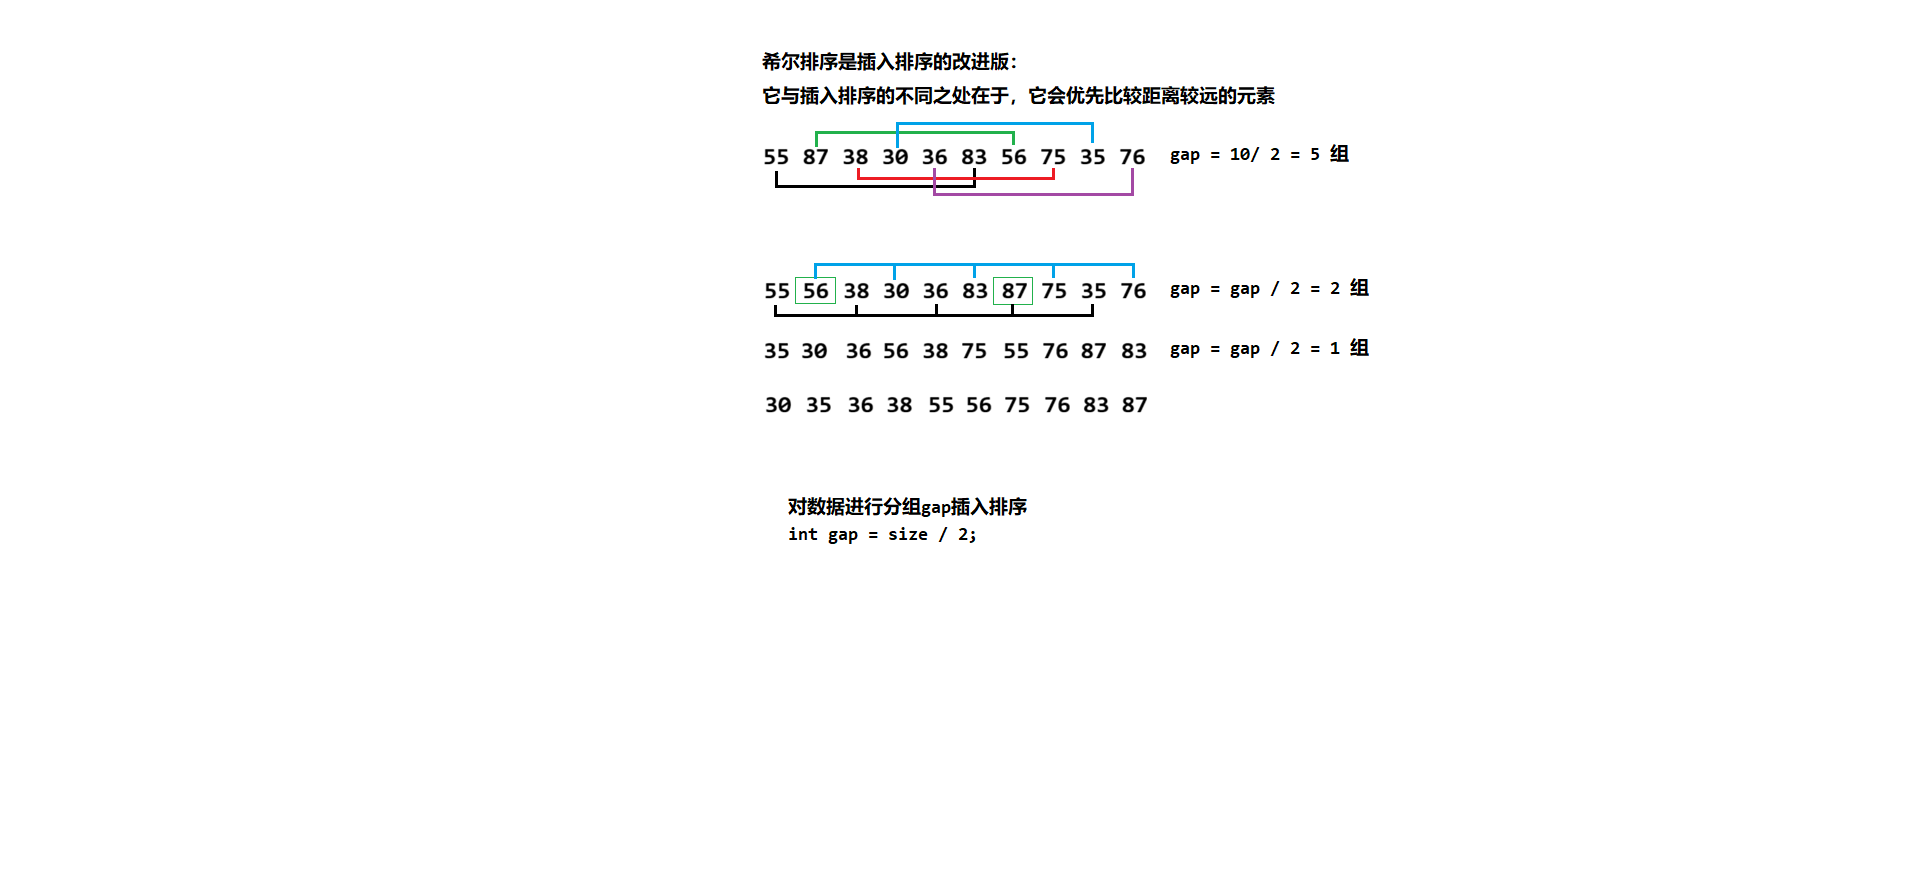
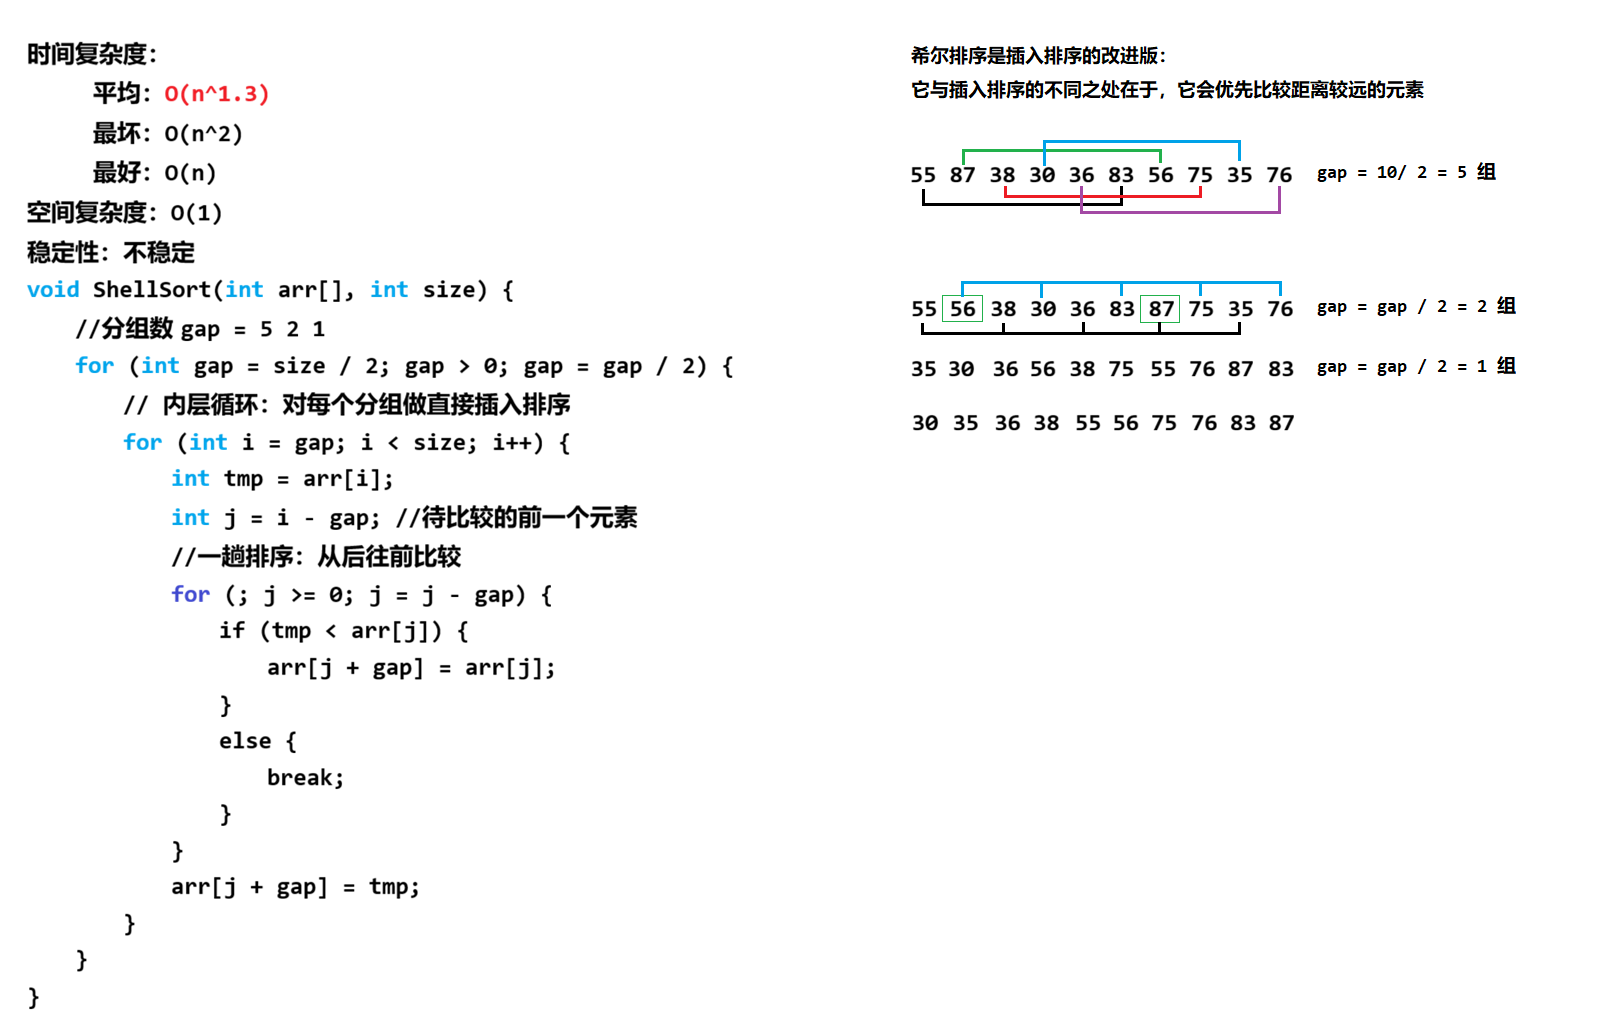
1

diff --git a/11 基础排序/11 基础排序/11 冒泡排序.cpp b/11 基础排序/11 基础排序/11 冒泡排序.cpp
@@ -1,4 +1,4 @@
-#include <iostream>
+#include <iostream>
 #include <time.h>
 
 using namespace std;
@@ -42,7 +42,7 @@ void ChoiceSort(int arr[], int size) {
 void InsertSort(int arr[], int size) {
 	for (int i = 0; i < size - 1; i++) {
 		int tmp = arr[i + 1];
-		int j = i;
+		int j = i; //待比较的前一个元素
 		//一趟排序：第i趟排序比较i+1次
 		for (; j >= 0; j--) {
 			if (tmp < arr[j]) {
@@ -56,22 +56,24 @@ void InsertSort(int arr[], int size) {
 	}
 }
 
-//希尔排序
+//希尔排序 - 时间复杂度：平均：O(n^1.3) 最坏：O(n^2) 最好：O(n) - 空间复杂度：O(1) - 稳定性：不稳定
 void ShellSort(int arr[], int size) {
+	//分组数 gap = 5 2 1
 	for (int gap = size / 2; gap > 0; gap = gap / 2) {
-		for (int i = 0; i < gap - 1; i++) {
-			int tmp = arr[i + 1];
-			int j = i;
-			//一趟排序：第i趟排序比较i+1次
-			for (; j >= 0; j--) {
+		// 内层循环：对每个分组做直接插入排序
+		for (int i = gap; i < size; i++) {
+			int tmp = arr[i];
+			int j = i - gap; //待比较的前一个元素
+			//一趟排序：从后往前比较
+			for (; j >= 0; j = j - gap) {
 				if (tmp < arr[j]) {
-					arr[j + 1] = arr[j];
+					arr[j + gap] = arr[j];
 				}
 				else {
 					break;
 				}
 			}
-			arr[j + 1] = tmp;
+			arr[j + gap] = tmp;
 		}
 	}
 }
@@ -86,7 +88,7 @@ int main() {
 	}
 	cout << endl;
 
-	InsertSort(arr, sizeof(arr) / sizeof(arr[0]));
+	ShellSort(arr, sizeof(arr) / sizeof(arr[0]));
 
 	for (int i : arr) {
 		cout << i << " ";
